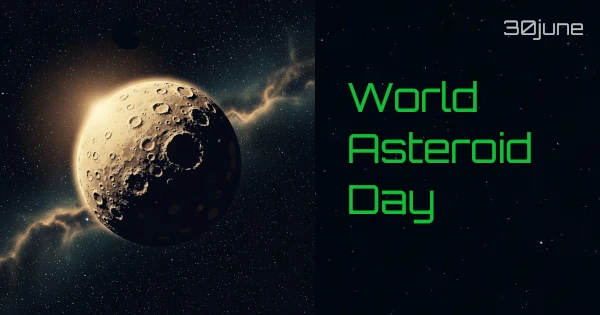
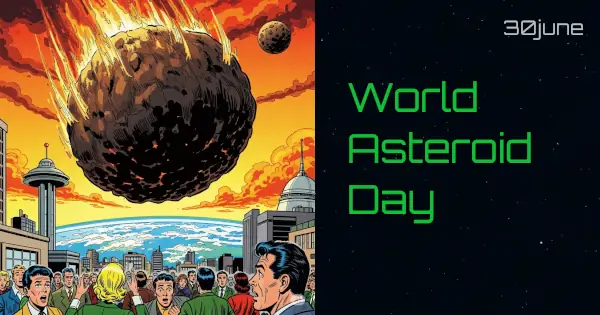
logs build & commit hash, updates some images and tags AI generated images

diff --git a/src/AsteroidDay.tsx b/src/AsteroidDay.tsx
@@ -55,7 +55,9 @@ const AsteroidDay: React.FC = () => {
       </Section>
 
       <Section showDownNav={true}>
-        <BgImage img="asteroid-belt-vintage.webp" overlay={'bg-black/25'} />
+        <BgImage img="asteroid-belt-vintage.webp" overlay={'bg-black/25'} 
+          credit="Image: AI"
+        />
         <div 
           className="opacity-5 translate-x-full intersect:opacity-100 intersect:translate-x-0 intersect-once delay-200 transition ease-out duration-500"
         >
@@ -70,8 +72,20 @@ const AsteroidDay: React.FC = () => {
       </Section>
 
       <Section showDownNav={true}>
+        <BgImage img="tunguska.webp" overlay={'bg-black/25'} 
+         credit="Image: AI"/>
+        <div 
+          className="opacity-5 translate-x-full intersect:opacity-100 intersect:translate-x-0 intersect-once delay-200 transition ease-out duration-500"
+        >
+          <Fact title="#1b">
+            The <Highlight styles="delay-1000">Tunguska event</Highlight>, the <Highlight styles="delay-1500">largest asteroid impact in recorded history</Highlight>, occurred on June 30, 1908, when a 50-60 meter asteroid struck Tunguska, Siberia, flattening 2,000 square km of forest.
+          </Fact>
+        </div>
+      </Section>
+
+      <Section showDownNav={true}>
         <BgImage img="nasa-dart.webp" overlay={'bg-black/25'} 
-          credit="Photo: NASA" creditLink="https://science.nasa.gov/planetary-defense-dart/" />
+          credit="Image: NASA" creditLink="https://science.nasa.gov/planetary-defense-dart/" />
         <div className="opacity-5 -translate-x-full intersect:opacity-100 intersect:translate-x-0 intersect-once delay-200 transition ease-out duration-500">
           <Fact title="#2">
             NASA's DART mission 
@@ -82,7 +96,9 @@ const AsteroidDay: React.FC = () => {
       </Section>
 
       <Section showDownNav={true}>
-        <BgImage img="ceres-vintage.webp" overlay={'bg-black/25'} />
+        <BgImage img="ceres-vintage.webp" overlay={'bg-black/25'}
+          credit="Image: AI"
+        />
         <div className="opacity-5 translate-x-full intersect:opacity-100 intersect:translate-x-0 intersect-once delay-200 transition ease-out duration-500">
           <Fact title="#3">
             The largest asteroid,
@@ -94,7 +110,9 @@ const AsteroidDay: React.FC = () => {
       </Section>
 
       <Section showDownNav={true}>
-        <BgImage img="gemini-mining.webp" overlay={'bg-black/25'} />
+        <BgImage img="mining.webp" overlay={'bg-black/25'}
+          credit="Image: AI"
+        />
         <div className="opacity-5 -translate-x-full intersect:opacity-100 intersect:translate-x-0 intersect-once delay-200 transition ease-out duration-500">
           <Fact title="#4">
             Some asteroids contain precious metals worth 
@@ -106,7 +124,9 @@ const AsteroidDay: React.FC = () => {
       </Section>
 
       <Section showDownNav={true}>
-        <BgImage img="jupiter-vintage.webp" overlay={'bg-black/25'} />
+        <BgImage img="jupiter-vintage.webp" overlay={'bg-black/25'} 
+          credit="Image: AI"
+        />
         <div className="opacity-5 translate-x-full intersect:opacity-100 intersect:translate-x-0 intersect-once delay-200 transition ease-out duration-500">
           <Fact title="#5">
             The asteroid belt between Mars and Jupiter contains 99.9% of all known asteroids in our solar system.

diff --git a/src/main.tsx b/src/main.tsx
@@ -13,6 +13,8 @@ createRoot(document.getElementById('root')!).render(
 console.log(`%c🛰 Greetings Earthling!`, 'background: #036; color: #fff');
 console.log(`%c🌕 source code: https://github.com/eoinmcg/asteroid-day`, 'background: #036; color: #fff');
 console.log(`%c☄ © Eoin McGrath  ${new Date().getFullYear()} (https://eoinmcgrath.com)`, 'background: #036; color: #fff');
+console.log(`build_date: ${BUILD_DATE} commit_hash: ${COMMIT_HASH}`);
+console.log('');
 
 
 

diff --git a/vite.config.ts b/vite.config.ts
@@ -1,8 +1,17 @@
 import { defineConfig } from 'vite'
 import react from '@vitejs/plugin-react'
 import tailwindcss from '@tailwindcss/vite'
+import * as child from "child_process";
+
+
+const commitHash = child.execSync("git rev-parse --short HEAD").toString();
+
 
 export default defineConfig({
   base: '',
   plugins: [react(), tailwindcss()],
+  define: {
+    BUILD_DATE: JSON.stringify(new Date().toISOString()),
+    COMMIT_HASH: JSON.stringify(commitHash),
+  },
 })

diff --git a/src/components/Quiz.tsx b/src/components/Quiz.tsx
@@ -93,7 +93,7 @@ export function Quiz() {
   return (
     <Section bgColor="bg-blue-900" showDownNav={false}>
       <StarryBg />
-      <div className="absolute bottom-4 py-2 text-white/30 flex gap-4">
+      <div className="absolute bottom-8 py-2 text-white/30 flex gap-4">
         <a href="https://eoinmcgrath.com"
           target="_blank"
           className="hover:text-white hover:drop-shadow-glow transition-all duration-300">

diff --git a/dist/index.html b/dist/index.html
@@ -30,7 +30,7 @@
 
     <script defer src="https://cloud.umami.is/script.js" data-website-id="6a7a59ee-cea7-4517-8aac-1aa3347fb5da"></script>
 
-    <script type="module" crossorigin src="./assets/index-DMWKK6_Z.js"></script>
+    <script type="module" crossorigin src="./assets/index-CszuK7Z4.js"></script>
     <link rel="stylesheet" crossorigin href="./assets/index-BV7tJcRy.css">
   </head>
   <body>

diff --git a/src/components/UI.tsx b/src/components/UI.tsx
@@ -44,7 +44,7 @@ export function BgImage({img, overlay, credit, creditLink}: BgImageProps) {
       <div className={`absolute inset-0 ${overlay}`}></div>
       
       {credit && (
-        <div className="absolute bottom-4 left-4 z-10">
+        <div className="absolute bottom-0 left-0 p-2 z-10">
           {creditLink ? (
             <a 
               href={creditLink}

diff --git a/src/LoadingScreen.tsx b/src/LoadingScreen.tsx
@@ -17,6 +17,8 @@ export const LoadingScreen = ({ onLoad }: LoadingScreenProps) => {
       'ceres-vintage.webp',
       'jupiter-vintage.webp',
       'space-bg2.webp',
+      'tunguska.webp',
+      'mining.webp',
       'bluesky.svg',
     ];
 

diff --git a/src/vite-env.d.ts b/src/vite-env.d.ts
@@ -1,3 +1,4 @@
 /// <reference types="vite/client" />
 
 declare const __GIT_COMMIT__: string;
+declare const BUILD_DATE: string;

diff --git a/README.md b/README.md
@@ -14,4 +14,5 @@ Entry to the dev.to Frontend Challenge, category [Perfect Landing: June Celebrat
 - Tailwind CSS for styling
 - Google Gemini (free plan) for image generation
 
+![World Asteroid Day](https://raw.githubusercontent.com/eoinmcg/asteroid-day/refs/heads/main/public/ogimage.webp)
 ![Ceres - the largest asteroid in the asteroid belt](https://raw.githubusercontent.com/eoinmcg/asteroid-day/refs/heads/main/public/ceres-vintage.webp)
